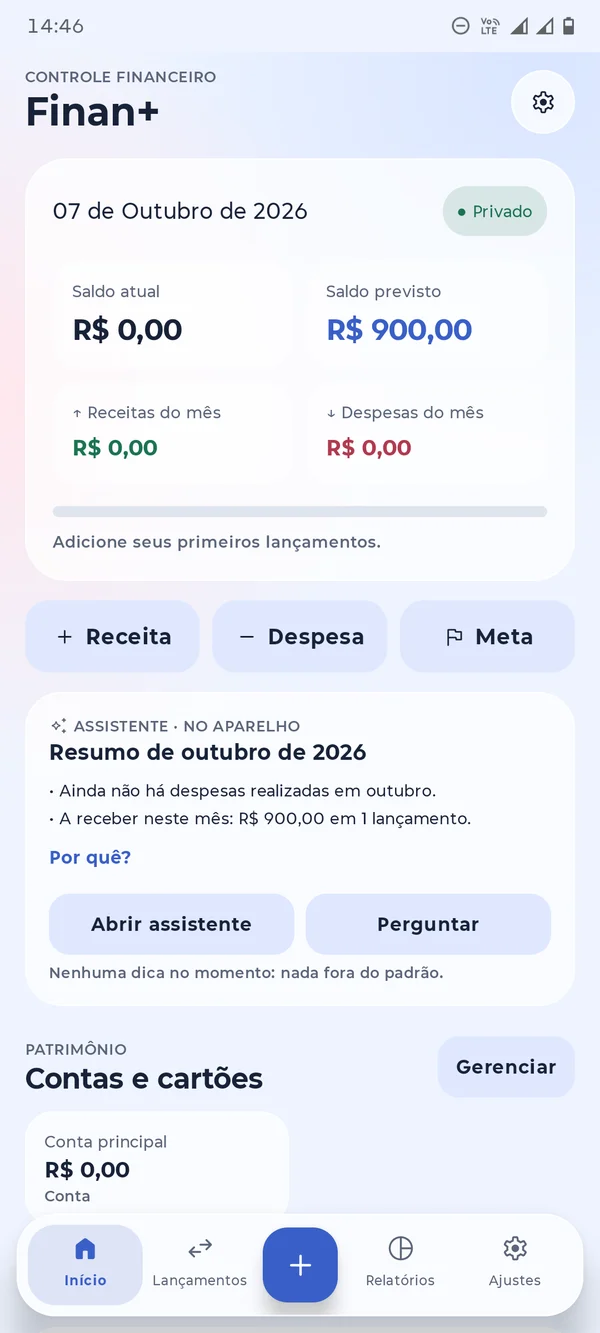
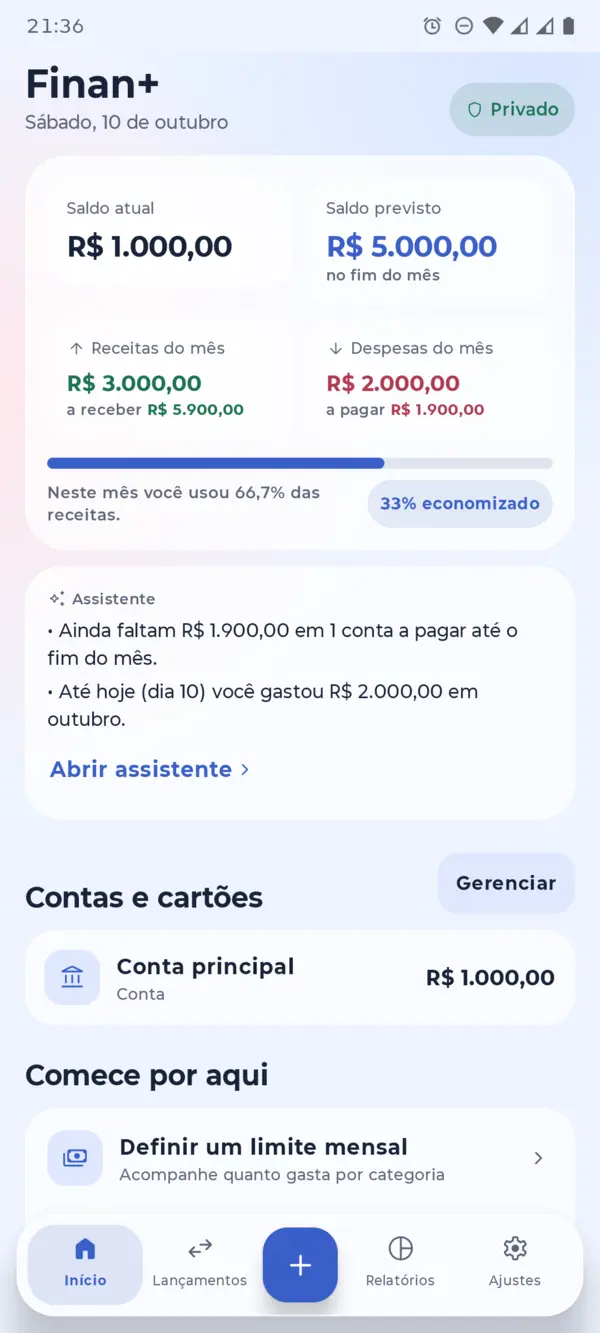
Tela Início nova no destaque do topo
Captura atual do Início (Android 1.4.1), com a bateria cheia como nas
outras telas, e texto alternativo atualizado.

Claude-Session: https://claude.ai/code/session_01XzZHZpxvricMqm5qYvHEZN

diff --git a/index.html b/index.html
@@ -83,7 +83,7 @@ a:focus-visible,summary:focus-visible{outline:3px solid #4269D8;outline-offset:3
 <!-- phone mockup -->
 <div style="flex: 1 1 320px; display: flex; justify-content: center">
 <div style="width: 300px; border-radius: 46px; padding: 10px; background: rgba(255,255,255,0.45); backdrop-filter: blur(24px) saturate(170%); -webkit-backdrop-filter: blur(24px) saturate(170%); border: 1px solid rgba(255,255,255,0.9); box-shadow: inset 0 1px 0 #FFFFFF, 0 24px 56px rgba(58,95,200,0.18)">
-<img src="assets/telas/android-inicio.webp" alt="Tela inicial do Finan+ no Android, com saldo atual, saldo previsto, receitas e despesas do mês e o resumo do assistente" style="width: 100%; height: auto; display: block; border-radius: 37px">
+<img src="assets/telas/android-inicio.webp" alt="Tela inicial do Finan+ no Android, com saldo atual e previsto, receitas e despesas do mês com o que falta receber e pagar, o resumo do assistente e contas" style="width: 100%; height: auto; display: block; border-radius: 37px">
 </div>
 </div>
 </div>
